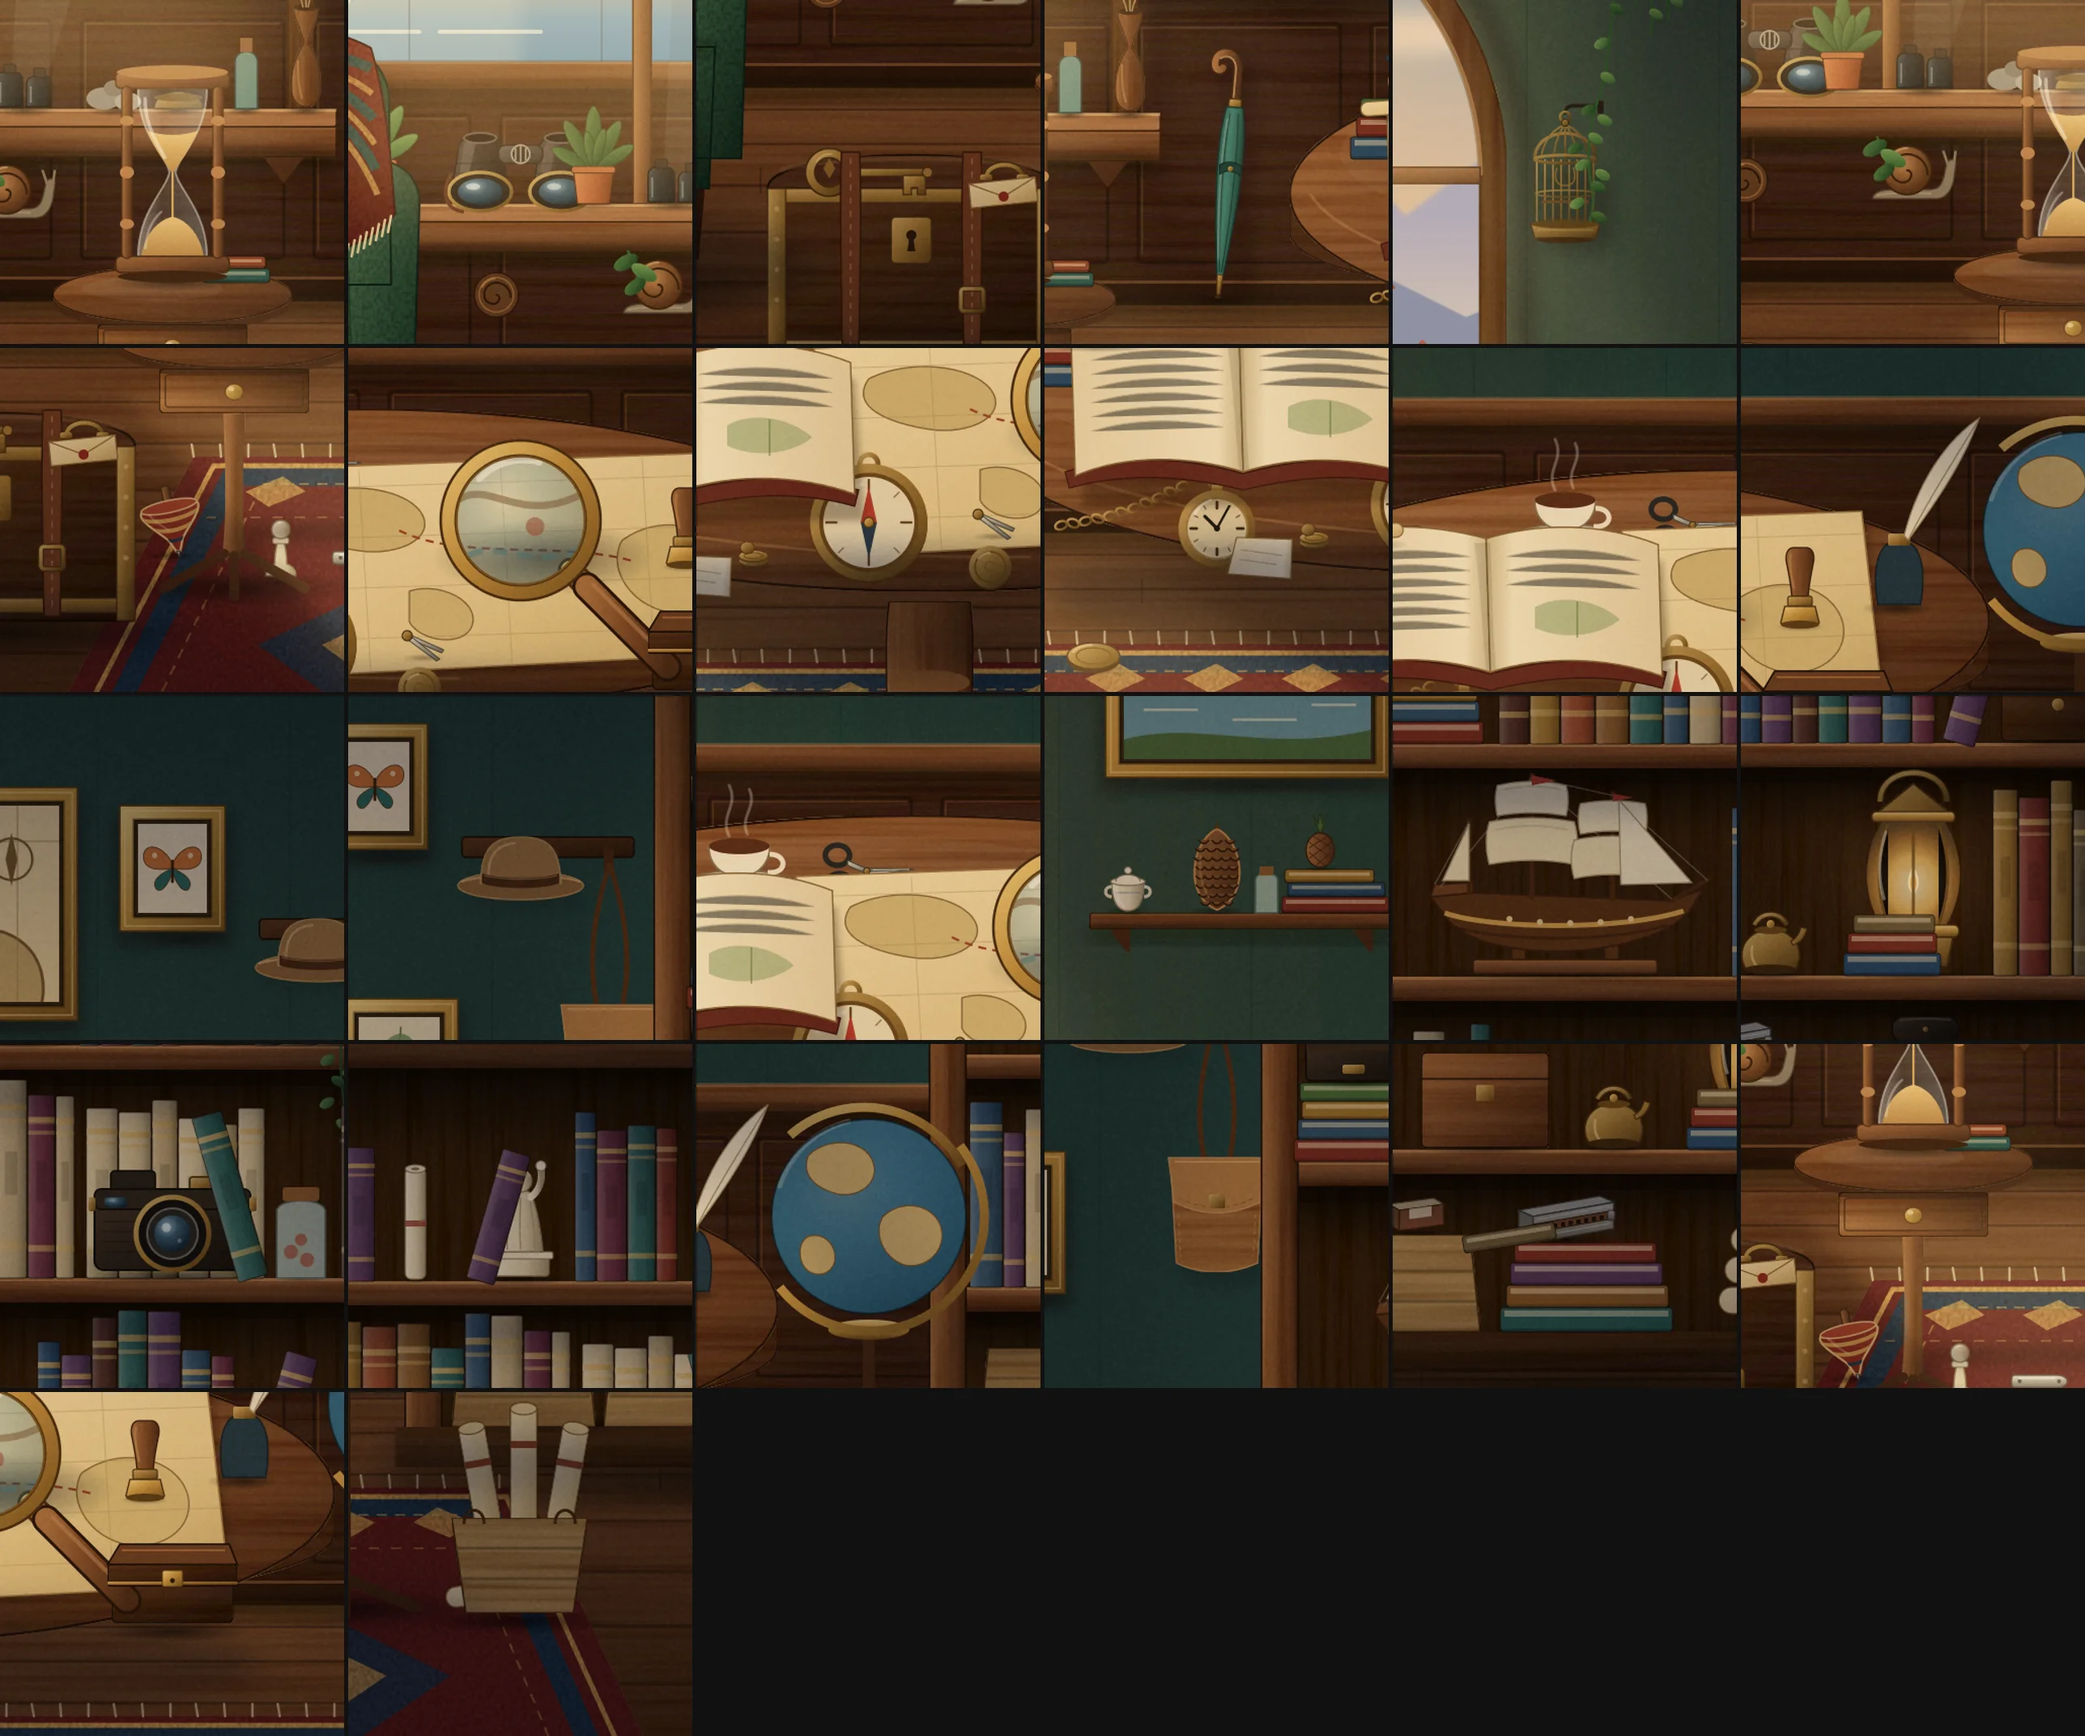
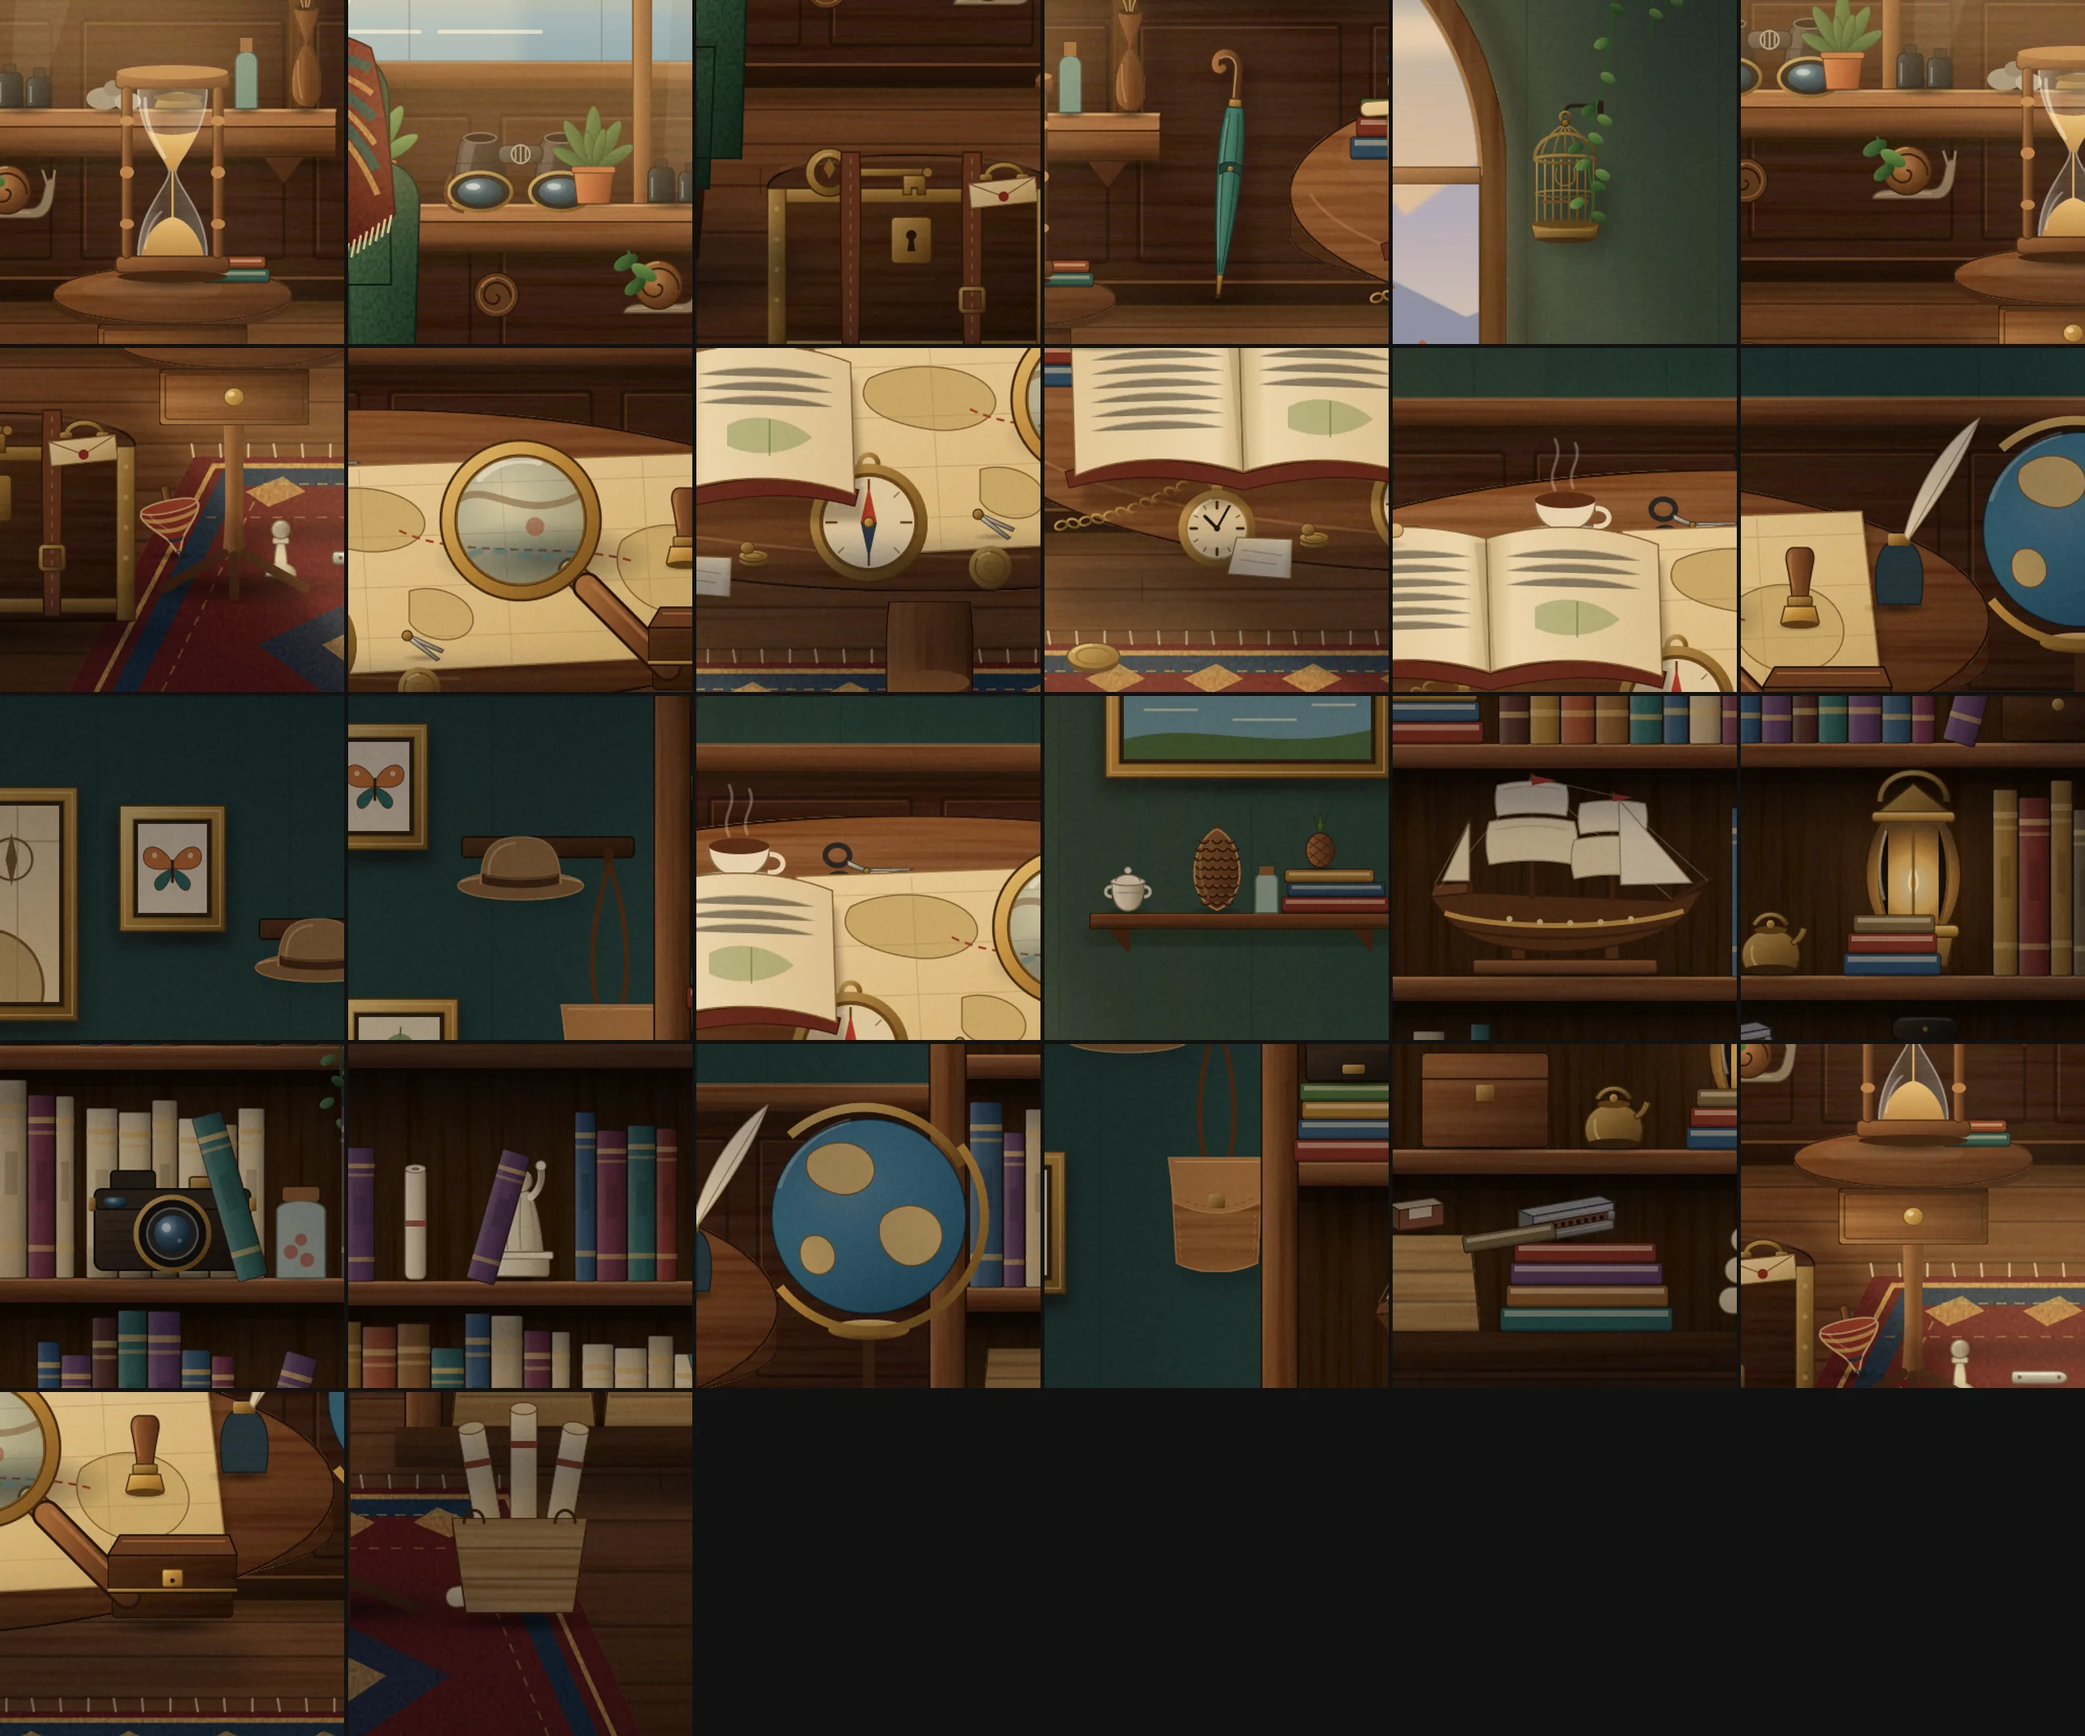
wip(game03): fair kept objects, restated old checks, interactions probe
- Whistle and necklace enlarged to the F6 zoom floor (min side 54 su), the side
  table's drawer and the box's lid deepened to keep them; the canteen is tier B
  (85% visible, one look-alike) — Fácil keeps the Xícara above 1 in 20.
- Look-alikes renamed where a name collided with an existing clue (C03).
- Old suites restated per generation where pieces supersede them (finds open
  the piece first; Fácil's reveal rings a shut piece; pool tiers; kit v3;
  session lists; P05 sample count scales with the round space).
- hidden-objects-interactions-probe.mjs: eight independent scenarios on the
  production build, React commits counted through the DevTools hook.

Claude-Session: https://claude.ai/code/session_0124mZjs7YrnHRtuizwzQYh2

diff --git a/src/games/hidden-objects/scenes/explorer-studio.ts b/src/games/hidden-objects/scenes/explorer-studio.ts
@@ -69,7 +69,7 @@ export const SCENE_STATIONS: readonly SceneStation[] = [
  * objects the room hides in plain materials — a snail on the wainscot, a spinning
  * top on the rug's edge, scissors under the map, a pine cone on the wall shelf, a
  * harmonica on the book pile (twenty-three: A6 · B7 · C10). GAME03-INTERACTIONS-04
- * added three kept behind pieces of the room (twenty-six: A6 · B7 · C13). Positions are
+ * added three kept behind pieces of the room (twenty-six: A6 · B8 · C12). Positions are
  * authored, never drawn at random: only which of them a round lists is.
  */
 export const HIDDEN_OBJECTS: readonly HiddenObjectDefinition[] = [
@@ -87,7 +87,7 @@ export const HIDDEN_OBJECTS: readonly HiddenObjectDefinition[] = [
     tier: "A",
     station: "janela",
     region: { kind: "rect", x: 742, y: 952, w: 116, h: 222 },
-    measured: { visible: 0.956, edge: 1.77, clutter: 0.158 },
+    measured: { visible: 0.956, edge: 1.77, clutter: 0.16 },
     hintRegion: "na mesinha junto à janela",
     hintDirection: "mais abaixo, ao lado da poltrona",
     hintContext: "perto de onde alguém se senta para ler",
@@ -125,7 +125,7 @@ export const HIDDEN_OBJECTS: readonly HiddenObjectDefinition[] = [
     tier: "C",
     station: "janela",
     region: { kind: "rect", x: 452, y: 1246, w: 132, h: 56 },
-    measured: { visible: 0.71, edge: 1.67, clutter: 0.134 },
+    measured: { visible: 0.71, edge: 1.67, clutter: 0.135 },
     hintRegion: "sobre o baú",
     hintDirection: "mais embaixo, perto do chão",
     hintContext: "em cima de algo que guarda coisas fechadas",
@@ -182,7 +182,7 @@ export const HIDDEN_OBJECTS: readonly HiddenObjectDefinition[] = [
     tier: "C",
     station: "janela",
     region: { kind: "rect", x: 598, y: 1052, w: 88, h: 60 },
-    measured: { visible: 0.794, edge: 2.02, clutter: 0.206 },
+    measured: { visible: 0.794, edge: 2.02, clutter: 0.205 },
     hintRegion: "no lambri, logo abaixo do peitoril",
     hintDirection: "embaixo da janela, perto das plantas do peitoril",
     hintContext: "subindo devagar pela madeira da parede",
@@ -239,7 +239,7 @@ export const HIDDEN_OBJECTS: readonly HiddenObjectDefinition[] = [
     tier: "B",
     station: "mesa",
     region: { kind: "circle", cx: 1540, cy: 1160, r: 66 },
-    measured: { visible: 0.88, edge: 1.97, clutter: 0.208 },
+    measured: { visible: 0.88, edge: 1.97, clutter: 0.21 },
     hintRegion: "na borda do mapa",
     hintDirection: "na frente da mesa, perto da beirada",
     hintContext: "entre um livro aberto e um mapa",
@@ -524,8 +524,8 @@ export const HIDDEN_OBJECTS: readonly HiddenObjectDefinition[] = [
     ],
     tier: "C",
     station: "janela",
-    region: { kind: "rect", x: 750, y: 1220, w: 100, h: 34 },
-    measured: { visible: 0.755, edge: 1.96, clutter: 0.214 },
+    region: { kind: "rect", x: 748, y: 1214, w: 104, h: 54 },
+    measured: { visible: 0.742, edge: 1.79, clutter: 0.208 },
     hintRegion: "na mesinha junto à janela, embaixo da ampulheta",
     hintDirection: "embaixo da ampulheta, guardado longe da vista",
     hintContext: "guardado bem perto de onde a areia escorre",
@@ -544,8 +544,8 @@ export const HIDDEN_OBJECTS: readonly HiddenObjectDefinition[] = [
     ],
     tier: "C",
     station: "mesa",
-    region: { kind: "rect", x: 1902, y: 1132, w: 96, h: 36 },
-    measured: { visible: 0.814, edge: 2.64, clutter: 0.162 },
+    region: { kind: "rect", x: 1902, y: 1128, w: 96, h: 54 },
+    measured: { visible: 0.779, edge: 3.16, clutter: 0.168 },
     hintRegion: "na ponta direita da mesa, perto do frasco de tinta",
     hintDirection: "na beirada direita da mesa, guardado dentro de algo",
     hintContext: "guardado onde os tesouros pequenos dormem, perto da pena",
@@ -562,7 +562,7 @@ export const HIDDEN_OBJECTS: readonly HiddenObjectDefinition[] = [
       { level: "indirect", text: "No meio da caminhada, a sede vai embora." },
       { level: "indirect", text: "Escoteiro que se preze não sai sem ele cheio." },
     ],
-    tier: "C",
+    tier: "B",
     station: "estante",
     region: { kind: "rect", x: 2330, y: 1336, w: 88, h: 80 },
     measured: { visible: 0.846, edge: 2.47, clutter: 0.082 },
@@ -731,10 +731,10 @@ export const SCENE_LOOKALIKES: readonly SceneLookAlike[] = [
   },
   // GAME03-INTERACTIONS-04: one look-alike for each object kept behind a piece, out in the room
   {
-    id: "canivete",
-    label: "Canivete",
+    id: "apontador",
+    label: "Apontador",
     resembles: "apito",
-    tellApart: "um cabo de metal fechado, sem bocal e sem argola de sopro",
+    tellApart: "um apontador de lápis, de lâmina e furo, sem bocal e sem argola",
     region: { kind: "rect", x: 896, y: 1388, w: 58, h: 22 },
   },
   {
@@ -774,11 +774,11 @@ export const SCENE_INTERACTABLES: readonly SceneInteractable[] = [
     accessibleLabel: "Gaveta da mesinha da janela",
     station: "janela",
     src: `${SCENE_ASSET_BASE}/pieces/gaveta-da-mesinha.webp`,
-    rect: { x: 724, y: 1212, w: 152, h: 46 },
+    rect: { x: 724, y: 1212, w: 152, h: 57 },
     origin: { x: 76, y: 0 },
     states: [
-      { id: "fechada", pose: {}, hit: { x: 724, y: 1212, w: 152, h: 46 }, open: false, announce: "A gaveta da mesinha está fechada." },
-      { id: "aberta", pose: { y: 46, scaleX: 1.06, scaleY: 1.06 }, hit: { x: 716, y: 1257, w: 168, h: 54 }, open: true, announce: "A gaveta da mesinha está aberta." },
+      { id: "fechada", pose: {}, hit: { x: 724, y: 1212, w: 152, h: 57 }, open: false, announce: "A gaveta da mesinha está fechada." },
+      { id: "aberta", pose: { y: 56 }, hit: { x: 718, y: 1268, w: 164, h: 57 }, open: true, announce: "A gaveta da mesinha está aberta." },
     ],
     initial: "fechada",
     motionMs: 380,
@@ -791,11 +791,11 @@ export const SCENE_INTERACTABLES: readonly SceneInteractable[] = [
     accessibleLabel: "Tampa da caixinha de madeira sobre a mesa",
     station: "mesa",
     src: `${SCENE_ASSET_BASE}/pieces/caixinha-da-mesa.webp`,
-    rect: { x: 1884, y: 1126, w: 132, h: 46 },
+    rect: { x: 1884, y: 1124, w: 132, h: 62 },
     origin: { x: 66, y: 0 },
     states: [
-      { id: "fechada", pose: {}, hit: { x: 1884, y: 1126, w: 132, h: 46 }, open: false, announce: "A caixinha de madeira está fechada." },
-      { id: "aberta", pose: { scaleY: -0.5, shade: 0.78 }, hit: { x: 1884, y: 1098, w: 132, h: 30 }, open: true, announce: "A tampa da caixinha de madeira está levantada." },
+      { id: "fechada", pose: {}, hit: { x: 1884, y: 1124, w: 132, h: 62 }, open: false, announce: "A caixinha de madeira está fechada." },
+      { id: "aberta", pose: { scaleY: -0.45, shade: 0.78 }, hit: { x: 1884, y: 1094, w: 132, h: 32 }, open: true, announce: "A tampa da caixinha de madeira está levantada." },
     ],
     initial: "fechada",
     motionMs: 420,

diff --git a/src/games/hidden-objects/scenes/explorer-observatory.ts b/src/games/hidden-objects/scenes/explorer-observatory.ts
@@ -523,7 +523,7 @@ export const HIDDEN_OBJECTS: readonly HiddenObjectDefinition[] = [
       { level: "direct", text: "Brinquedo que imita uma nave rumo à Lua." },
       { level: "associative", text: "Tem bico pontudo e aletas para subir ao céu." },
       { level: "associative", text: "Leva astronautas para fora da Terra." },
-      { level: "indirect", text: "Um menino sonha pilotá-lo até as estrelas." },
+      { level: "indirect", text: "Um menino sonha pilotá-lo pelo espaço afora." },
       { level: "indirect", text: "Lançado do quintal, some entre as nuvens." },
     ],
     tier: "C",
@@ -552,7 +552,7 @@ export const HIDDEN_OBJECTS: readonly HiddenObjectDefinition[] = [
     measured: { visible: 0.767, edge: 3.91, clutter: 0.177 },
     hintRegion: "embaixo da bancada, do lado direito",
     hintDirection: "embaixo do tampo, à direita, guardado",
-    hintContext: "guardado bem embaixo dos planetas de latão",
+    hintContext: "guardado bem embaixo dos planetas de latão, longe da vista",
     gate: "gaveta-da-bancada",
   },
   {
@@ -742,15 +742,15 @@ export const SCENE_LOOKALIKES: readonly SceneLookAlike[] = [
   },
   // GAME03-INTERACTIONS-04: one look-alike for each object kept behind a piece, out in the room
   {
-    id: "chapeu-de-festa",
-    label: "Chapéu de festa",
+    id: "chapeu-de-mago",
+    label: "Chapéu de mago",
     resembles: "foguete",
-    tellApart: "um cone de papel com elástico, sem janelinha e sem aletas",
+    tellApart: "um cone de papel de fantasia, com elástico, sem janelinha e sem aletas",
     region: { kind: "rect", x: 470, y: 1232, w: 40, h: 52 },
   },
   {
     id: "carretel",
-    label: "Carretel de linha",
+    label: "Carretel",
     resembles: "ioio",
     tellApart: "um cilindro de madeira cheio de linha enrolada, que não sobe nem desce",
     region: { kind: "rect", x: 1880, y: 1196, w: 40, h: 40 },

diff --git a/src/games/hidden-objects/HiddenObjectsScene.tsx b/src/games/hidden-objects/HiddenObjectsScene.tsx
@@ -322,7 +322,7 @@ function ScenePieces({
               unoptimized
               loading="eager"
               draggable={false}
-              className="hos-layer hos-piece"
+              className="hos-piece"
               data-piece={piece.id}
               data-kind={piece.kind}
               data-state={state.id}

diff --git a/src/games/hidden-objects/hidden-objects.css b/src/games/hidden-objects/hidden-objects.css
@@ -194,6 +194,11 @@
 }
 
 .hos-piece {
+  position: absolute;
+  max-width: none;
+  pointer-events: none;
+  user-select: none;
+  -webkit-user-drag: none;
   touch-action: none;
   transition:
     transform var(--hos-piece-ms, 400ms) cubic-bezier(0.3, 0.7, 0.3, 1),
